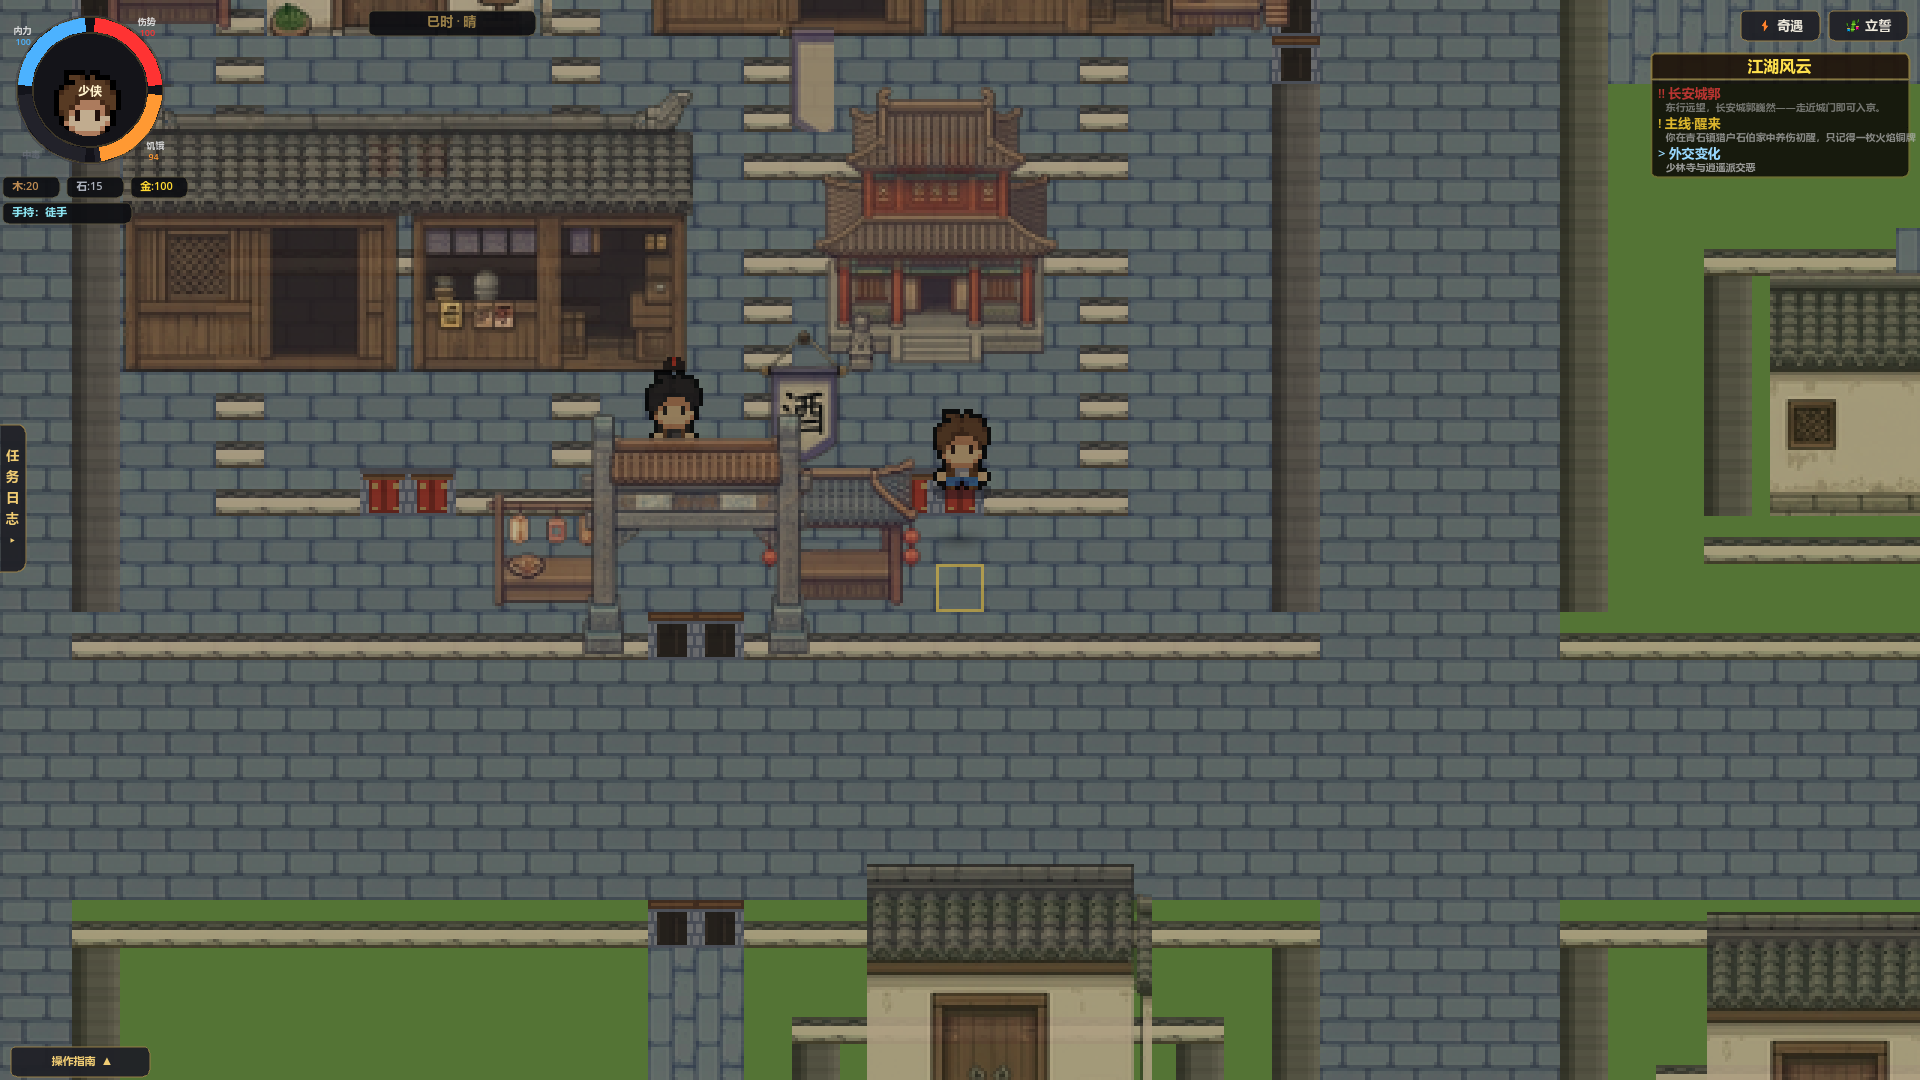
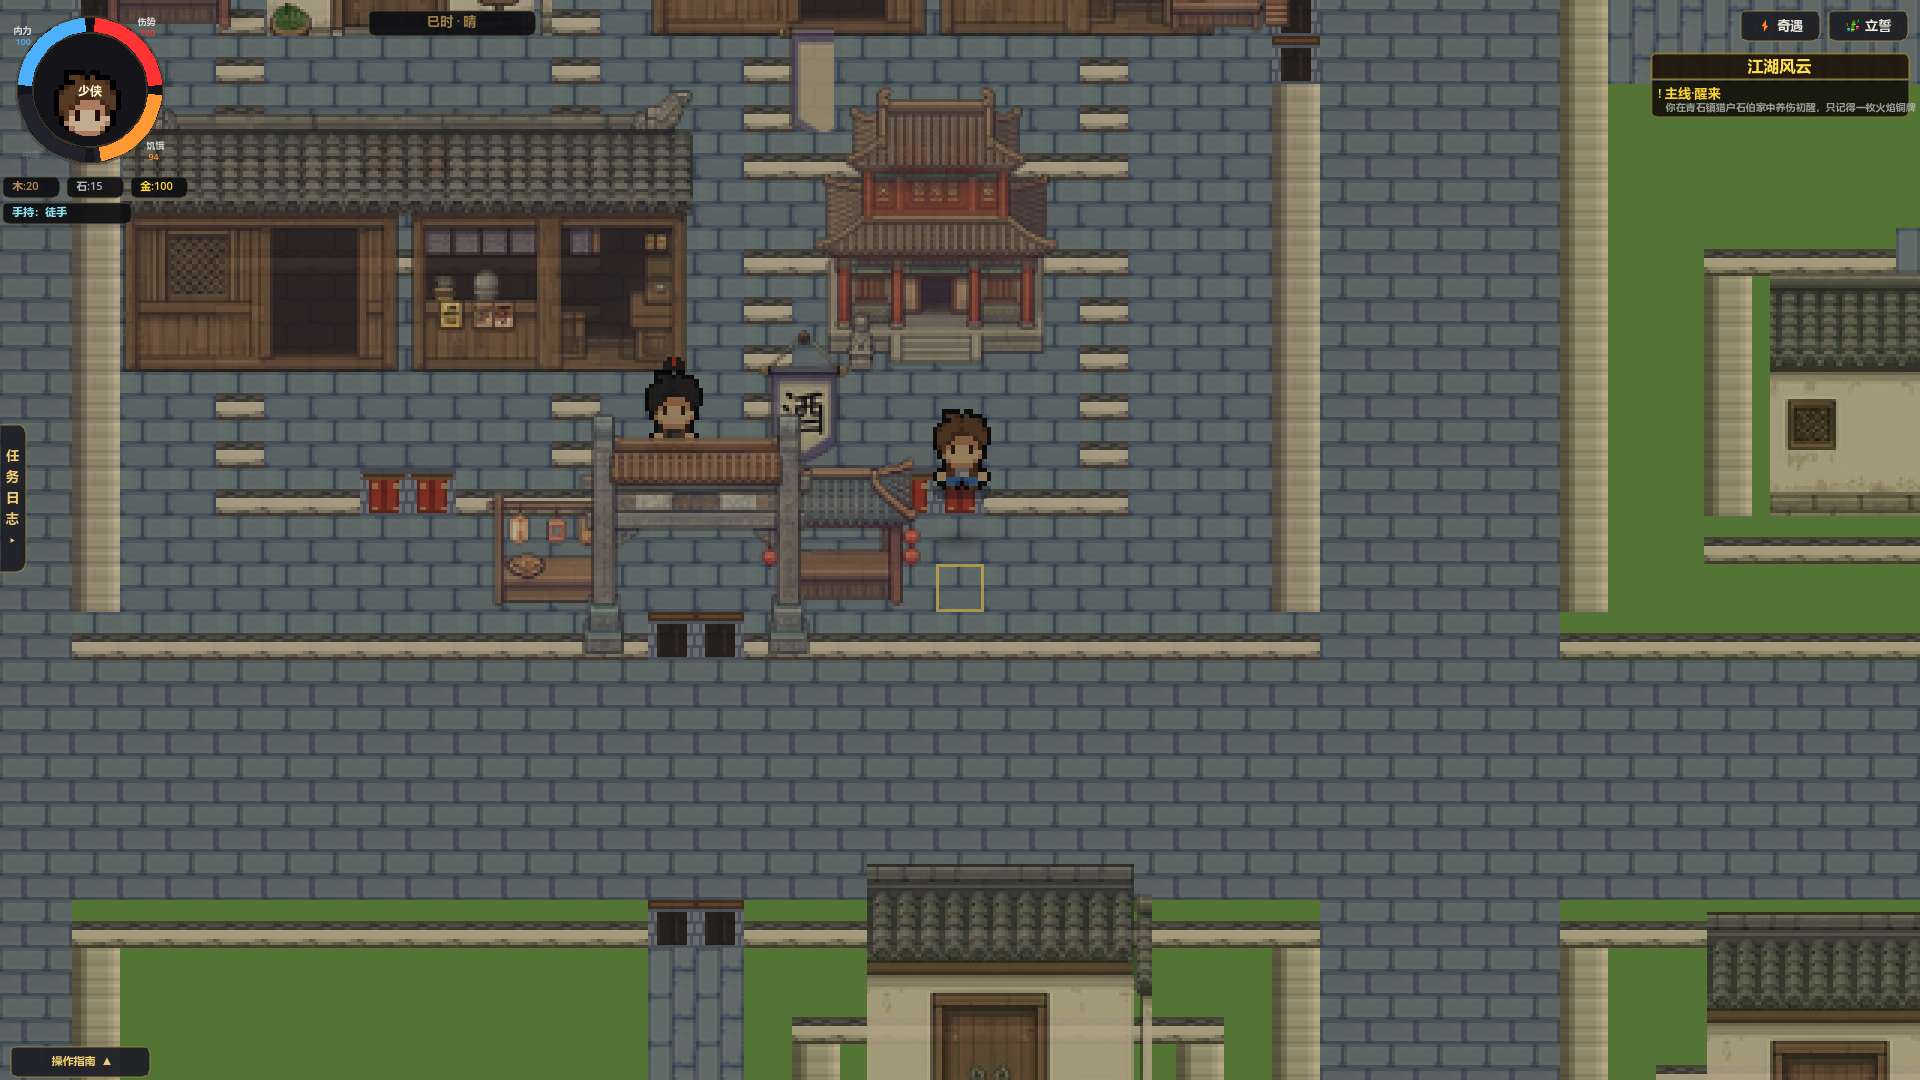
fix: 长安竖墙材质统一终案——选窗纠错(回纹/木纹误切)+垛口齿转角衔接
- dump游戏进程内tileset纹理证明加载链路正常→真凶=两处选窗误判：71御道误切回字纹砖(208,500)、105坊墙竖面误切木门框(496,232)，夜色调制放大违和
- 71=宽石板(112,560)；竖立面=solid纯段+低对比砖纹+生成式描边；新增108/109垛口齿列(tile70旋转±90°齿朝东西外侧)与横墙垛口转角衔接
- E2E新增CHANGAN_SHOT定点截图模式(并入主流程分叉)+tileset纹理dump工具
- 验证：探针PASS/E2E双跑PASS/regress 121/121/定点样张目检横竖材质同系衔接正常

diff --git a/tools/import_sckr_changan.py b/tools/import_sckr_changan.py
@@ -106,7 +106,7 @@ TILES = [
     ("street_main",   JC, (32, 48, 48, 64)),      # 72 主干街：顺砖
     ("street_ward",   JC, (32, 416, 48, 432)),    # 73 坊内街：竖砖
     ("street_lane",   JC, (480, 64, 496, 80)),    # 74 巷路：人字纹
-    ("street_zhuque", JC, (208, 500, 224, 516)),  # 71 御道：大石板
+    ("street_zhuque", JC, (112, 560, 128, 576)),  # 71 御道：宽石板（208,500实为回字纹砖，选窗误判已纠）
     ("pave_market",   JC, (96, 544, 112, 560)),   # 市内/宫内地面：宽版石板
     # 城墙（垛口+墙身同窗）
     ("wall_city",     JC, (568, 122, 584, 138)),  # 70 外郭城墙·垛口行（城齿+箭窗压顶）
@@ -127,13 +127,17 @@ COMPOSITES = [
     ("wall_palace", JC3, [(0, 142, 16, 150), (0, 151, 16, 164), (0, 166, 16, 175)],
      [5, 9, 2]),   # 69 宫墙（金瓦顶+红身+石基）
     # 竖向墙段=侧立面（无檐无垛口，纯墙面+左右描边，檐口只落在转角/墙段北端）
-    # 竖立面 = "solid" 程序素面（源段平均色+轻噪点，零重复图案；长条压缩/源凸起连排都会成"横档梯"，双重实测踩坑）
-    ("wall_ward_v",   JN,  [(496, 232, 512, 246)],
-     [16, "vedge", "solid"]),   # 105 坊墙·竖立面（暖白灰素面）
+    # 竖立面终案（夜色调制下素面会成"棕色光柱"）：低对比砖纹（±6% 缝，白天有材质、夜里不成光柱）
+    ("wall_ward_v",   JN,  [(204, 36, 220, 52)],
+     [16, "vedge", "solid", "brick"]),   # 105 坊墙·竖立面（白墙纯段solid平均=暖白灰；496,232实为木门框区，选窗误判已纠）
     ("wall_palace_v", JC3, [(0, 152, 16, 162)],
-     [16, "vedge", "solid"]),   # 104 宫墙·竖立面（朱红素面）
+     [16, "vedge", "solid", "brick"]),   # 104 宫墙·竖立面（朱红纯段）
     ("wall_city_face_v", JC, [(568, 138, 584, 154)],
-     [16, "vedge", "solid"]),   # 103 外郭墙·竖立面（青灰素面，双列成厚墙）
+     [16, "vedge", "solid", "brick"]),   # 103 外郭墙·竖立面·内列（青灰低对比砖纹）
+    ("wall_city_cap_w", JC, [(568, 122, 584, 138)],
+     [16, "caprot", -90]),   # 108 外郭墙·垛口齿·西列（齿朝西，与横墙垛口转角衔接）
+    ("wall_city_cap_e", JC, [(568, 122, 584, 138)],
+     [16, "caprot", 90]),    # 109 外郭墙·垛口齿·东列（齿朝东）
 ]
 
 def trim_alpha(im, pad=1):
@@ -195,6 +199,13 @@ def main():
             im.paste(p, (0, y))
             y += hpx
         solid = "solid" in weights
+        if "caprot" in weights:
+            # 垛口齿侧转：横墙垛口行整体旋转±90°（齿朝东西外侧，俯视正确），转角与横墙垛口自然衔接
+            rot = [w for w in weights if w != "caprot"][0]
+            im = src.crop(strips[0]).rotate(rot, expand=True)
+            im.save(os.path.join(OUT_TILES, name + ".png"))
+            made.append((name, im, "tile"))
+            continue
         if solid:
             # 素面墙：源段平均色 + ±6% 行噪点（极轻，防绝对纯色）——竖排永不产生重复图案
             src_strip = src.crop(strips[0])
@@ -215,6 +226,16 @@ def main():
                 f = 1.0 + _rnd.uniform(-0.06, 0.06)
                 for xx in range(16):
                     px[xx, yy] = (min(255, int(base[0] * f)), min(255, int(base[1] * f)), min(255, int(base[2] * f)), 255)
+            if "brick" in weights:
+                # 低对比错缝砖纹（±7%）：给材质但不产生横档（高对比缝在夜色调制下成"梯"的教训）
+                for row_i, yy in enumerate(range(0, 16, 5)):
+                    for xx in range(16):
+                        r, g, b, a = px[xx, yy]
+                        px[xx, yy] = (int(r * 0.93), int(g * 0.93), int(b * 0.93), a)
+                    jx = (3, 9, 14)[row_i % 3]
+                    for yy2 in range(yy, min(16, yy + 5)):
+                        r, g, b, a = px[jx, yy2]
+                        px[jx, yy2] = (int(r * 0.93), int(g * 0.93), int(b * 0.93), a)
         if vedge:
             # 生成式描边（覆盖式，非乘法——源图残亮乘不没）：左3px 深影、2px 过渡、右2px 受光
             px = im.load()

diff --git a/tools/run_changan_e2e.py b/tools/run_changan_e2e.py
@@ -24,7 +24,8 @@ def main():
         # 陷阱#34：stdout 落文件句柄，勿用 PIPE；加 windowed 参数跑窗口模式出截图样张
         gf = open(gp, "wb")
         args = [exe] + ([] if "windowed" in sys.argv else ["--headless"]) + ["--path", proj]
-        proc = subprocess.Popen(args, cwd=proj, stdout=gf, stderr=subprocess.STDOUT)
+        env = dict(os.environ)  # CHANGAN_SHOT 透传给定点截图模式
+        proc = subprocess.Popen(args, cwd=proj, stdout=gf, stderr=subprocess.STDOUT, env=env)
         timed_out = False
         try:
             proc.communicate(timeout=180)
